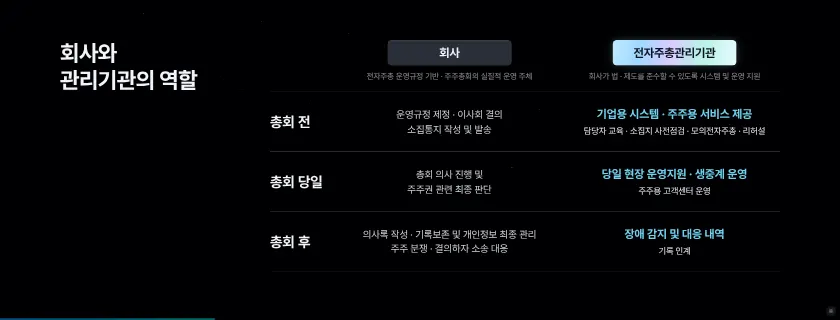
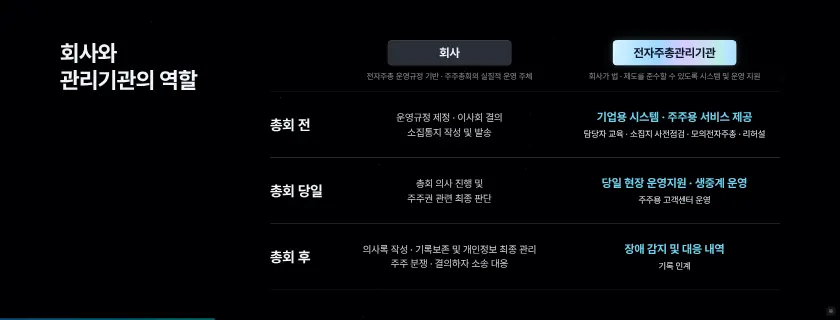
session4 K14: 표 행 높이 300 → 330px, 전자주총관리기관 칩 그라데이션 흐름 모션(6초 반복)
Claude-Session: https://claude.ai/code/session_01Mn7NmyW5iujmmHnaRBFKBZ

diff --git a/sw.js b/sw.js
@@ -1,5 +1,5 @@
 /* 오프라인 캐시 — 온라인 주소(https)로 한 번 열면 모든 파일을 저장해 두고, 통신이 끊겨도 저장본으로 동작합니다. */
-const V='seminar-screen-11262007';
+const V='seminar-screen-11262008';
 const FILES=["./","assets/KakaoBigSans-Bold.woff2","assets/KakaoBigSans-Regular.woff2","assets/KakaoSmallSans-Bold.woff2","assets/KakaoSmallSans-Light.woff2","assets/KakaoSmallSans-Regular.woff2","assets/OrbitControls.js","assets/PretendardVariable.woff2","assets/attendees.js","assets/blue-bloom.html","assets/cong1.webp","assets/cong2.webp","assets/ds-bg.html","assets/four-states.html","assets/intro.mp4","assets/irk-white.svg","assets/irk-wordmark-white.svg","assets/kism-intro.mp4","assets/kism-white.svg","assets/ksmp-white.svg","assets/panel.js","assets/qa-online.js","assets/s2/img1.png","assets/s2/img2.png","assets/s2/img3.png","assets/s2/img4.png","assets/s4/aws.webp","assets/s4/callcenter.webp","assets/s4/chair-1.webp","assets/s4/chair-2.webp","assets/s4/chair-3.webp","assets/s4/conexus-word.webp","assets/s4/ctl-1.webp","assets/s4/cx-1.webp","assets/s4/cx-2.webp","assets/s4/cx-3.webp","assets/s4/cx-flow.mp4","assets/s4/cx-pop1.webp","assets/s4/cx-pop2.webp","assets/s4/cx-vote.mp4","assets/s4/cx-vote.webp","assets/s4/cxs-1.webp","assets/s4/insurance.webp","assets/s4/isms-t.webp","assets/s4/isms.webp","assets/s4/ismsp-t.webp","assets/s4/ismsp.webp","assets/s4/kosmos-white.png","assets/s4/ks-1.webp","assets/s4/ks-2.webp","assets/s4/ks-3.webp","assets/s4/ks-4.webp","assets/s4/ks-5.webp","assets/s4/ks-video.webp","assets/s4/live-1.webp","assets/s4/live-2.webp","assets/s4/live-3.webp","assets/s4/live-4.webp","assets/s4/live-5.webp","assets/s4/live-6.webp","assets/s4/live-7.webp","assets/s4/live-8.webp","assets/s4/logos.webp","assets/s4/ocr-1.webp","assets/s4/ocr-2.webp","assets/s4/ocr-3.webp","assets/s4/ocr-4.webp","assets/s4/ocr-5.webp","assets/s4/on-1.png","assets/s4/on-2.webp","assets/s4/on-3.webp","assets/s4/on-4.png","assets/s4/on-5.webp","assets/s4/onboard-1.webp","assets/s4/onboard-2.webp","assets/s4/privacy.webp","assets/s4/proxymity.svg","assets/s4/rehearsal.webp","assets/s4/streaming-korea.webp","assets/s4/tab-1.webp","assets/s4/tab-2.webp","assets/s4/team.webp","assets/sched.js","assets/screen-title-2.svg","assets/screen-title-b-text.svg","assets/screen-title-b.svg","assets/seat-banners.js","assets/seat-fascia.js","assets/seat-screen.js","assets/seatmap.js","assets/service-intro.mp4","assets/speaker-scott.webp","assets/speaker1-1.webp","assets/speaker2.webp","assets/speaker3-1.webp","assets/supabase.min.js","assets/three.min.js","assets/title-logos.svg","control.html","index-fs.html","index.html","kism.html","lobby/cuts.html","lobby/index.html","mc.html","session2.html","session4.html","sw.js","tools/s2_build.py","tools/s2_shell.html","assets/s3/p01.webp","assets/s3/p02.webp","assets/s3/p03.webp","assets/s3/p04.webp","assets/s3/p05.webp","assets/s3/p06.webp","assets/s3/p07.webp","assets/s3/p08.webp","assets/s3/p09.webp","assets/s3/p10.webp","assets/s3/p11.webp","assets/s3/p12.webp","assets/s3/p13.webp","assets/s3/p14.webp","assets/s3/p15.webp","assets/s3/p16.webp","assets/s3/p17.webp","assets/s3/p18.webp","assets/s3/p19.webp","assets/s3/p20.webp","assets/s3/p21.webp","assets/s3/p22.webp","assets/s3/p23.webp","assets/kism/photo-main.webp","assets/kism/photo-2.webp","assets/kism/photo-3.webp","assets/kism/photo-4.webp","assets/sound/countdown-tick.mp3","assets/sound/sfx-s3-part.mp3","assets/sound/sfx-s4-reveal.mp3","assets/sound/sfx-s5-proxymity.mp3","assets/sound/sfx-s6-chime.mp3","assets/sound/sfx-s7-close.mp3","assets/sound/opening-hit.mp3","assets/s4/kosmos-color.svg","assets/s4/ke-logo.png","assets/s4/ke-live.mp4","assets/kism/kwon-talk.mp4","assets/kism/manual-book.webp","kism-open.html","kism_16x9.html","led.html","assets/s4/cx-ops.mp4","assets/s4/cx-ops.webp","assets/s4/agent-app.mp4","assets/s4/agent-app.webp","assets/s4/k24b-bg.webp","session0.html","assets/kism/photo-main-cut.webp","assets/s4/cx-chair.mp4","assets/s4/cx-chair.webp","assets/s4/cx-test.mp4","assets/s4/cx-test.webp","assets/s4/onboard-mgr.webp","assets/s4/proxymity-logo.png","assets/s4/k21-bg.webp","assets/s4/kosmos-admin-white.svg","assets/kism-intro-16x9.mp4","assets/seat-guide.html","assets/s4/app-icon-agent.svg","assets/ds-main.mp4","assets/s4/k2-agency.webp","assets/s4/k2-support.webp","assets/s4/thumbs/K00.webp","assets/s4/thumbs/K01.webp","assets/s4/thumbs/K02.webp","assets/s4/thumbs/K03.webp","assets/s4/thumbs/K04.webp","assets/s4/thumbs/K05.webp","assets/s4/thumbs/K06.webp","assets/s4/thumbs/K07.webp","assets/s4/thumbs/K08.webp","assets/s4/thumbs/K09.webp","assets/s4/thumbs/K10.webp","assets/s4/thumbs/K11.webp","assets/s4/thumbs/K12.webp","assets/s4/thumbs/K13.webp","assets/s4/thumbs/K14.webp","assets/s4/thumbs/K15.webp","assets/s4/thumbs/K16.webp","assets/s4/thumbs/K17.webp","assets/s4/thumbs/K18a.webp","assets/s4/thumbs/K18b.webp","assets/s4/thumbs/K18c.webp","assets/s4/thumbs/K19.webp","assets/s4/thumbs/K19b.webp","assets/s4/thumbs/K20.webp","assets/s4/thumbs/K21.webp","assets/s4/thumbs/K21b.webp","assets/s4/thumbs/K22s.webp","assets/s4/thumbs/K23.webp","assets/s4/thumbs/K23b.webp","assets/s4/thumbs/K24a.webp","assets/s4/thumbs/K24b.webp","assets/s4/thumbs/K24c.webp","assets/s4/thumbs/K25.webp","assets/s4/thumbs/K25b.webp","assets/s4/thumbs/K26.webp","assets/s4/thumbs/K27.webp","assets/s4/thumbs/K28a.webp","assets/s4/thumbs/K28b.webp","assets/s4/thumbs/K28c.webp","assets/s4/thumbs/K28d.webp","assets/s4/thumbs/K29.webp","assets/s4/thumbs/K30.webp","assets/s4/thumbs/K09b.webp","assets/s4/thumbs/K28e.webp"];
 self.addEventListener('install',e=>{e.waitUntil(caches.open(V).then(c=>c.addAll(FILES)).then(()=>self.skipWaiting()));});
 self.addEventListener('activate',e=>{e.waitUntil(caches.keys().then(ks=>Promise.all(ks.filter(k=>k!==V).map(k=>caches.delete(k)))).then(()=>self.clients.claim()));});

diff --git a/session4.html b/session4.html
@@ -1693,6 +1693,10 @@ body:not(.idle) #sgb{opacity:.9}body.grid #sgb{opacity:0;pointer-events:none}
 #K02 .bc.ph .u1{top:96px!important}
 #K02 .bc.ph .u2,#K02 .bc.ph .u3{top:401px!important}
 #K07 .cols{top:460px;bottom:210px}
+/* 11/26 20:07 K14: 표 세로 키움, 전자주총관리기관 칩 그라데이션 흐름 */
+#K14 .tr{height:330px!important}
+#K14 .chip.ir{background:linear-gradient(100deg,#bfe9ff 0%,#9fd8ff 11%,#d9ccff 23%,#b8f3e6 36%,#e8fbff 50%,#bfe9ff 61%,#9fd8ff 72%,#d9ccff 84%,#b8f3e6 100%);background-size:200% 100%;animation:k14ir 6s linear infinite}
+@keyframes k14ir{from{background-position:0% 50%}to{background-position:-200% 50%}}
 </style></head>
 <body>
 <div class="stage" id="stage">
